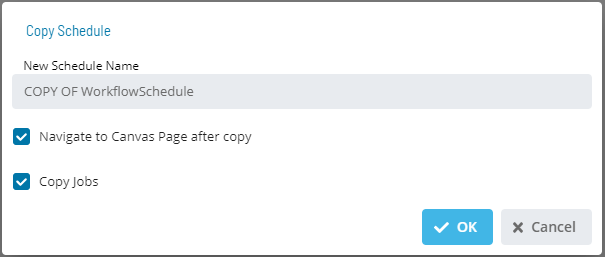
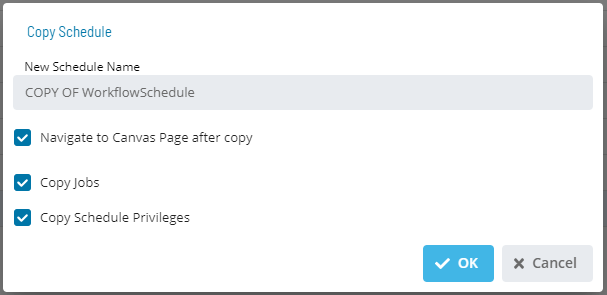
Added copy schedule privileges doc

diff --git a/docs/Files/UI/Solution-Manager/Studio/Canvas/Copying-Master-Schedules.md b/docs/Files/UI/Solution-Manager/Studio/Canvas/Copying-Master-Schedules.md
@@ -17,7 +17,7 @@ Select a schedule and select **Copy**.
 
 ![Master Schedule Copy Button](../../../../../Resources/Images/SM/Studio/MasterSchedules/master-schedule-copy-button.png "Master Schedule Copy Button")
 
-A dialog will open to define *new* **Schedule Name** with an option to **Copy Master Jobs**.
+A dialog will open to define *new* **Schedule Name** with options to **Copy Master Jobs** and **Copy Schedule Privileges**.  
 
 ![Master Schedule Copy Dialog](../../../../../Resources/Images/SM/Studio/MasterSchedules/master-schedule-copy-dialog.png "Master Schedule Copy Dialog")
 
